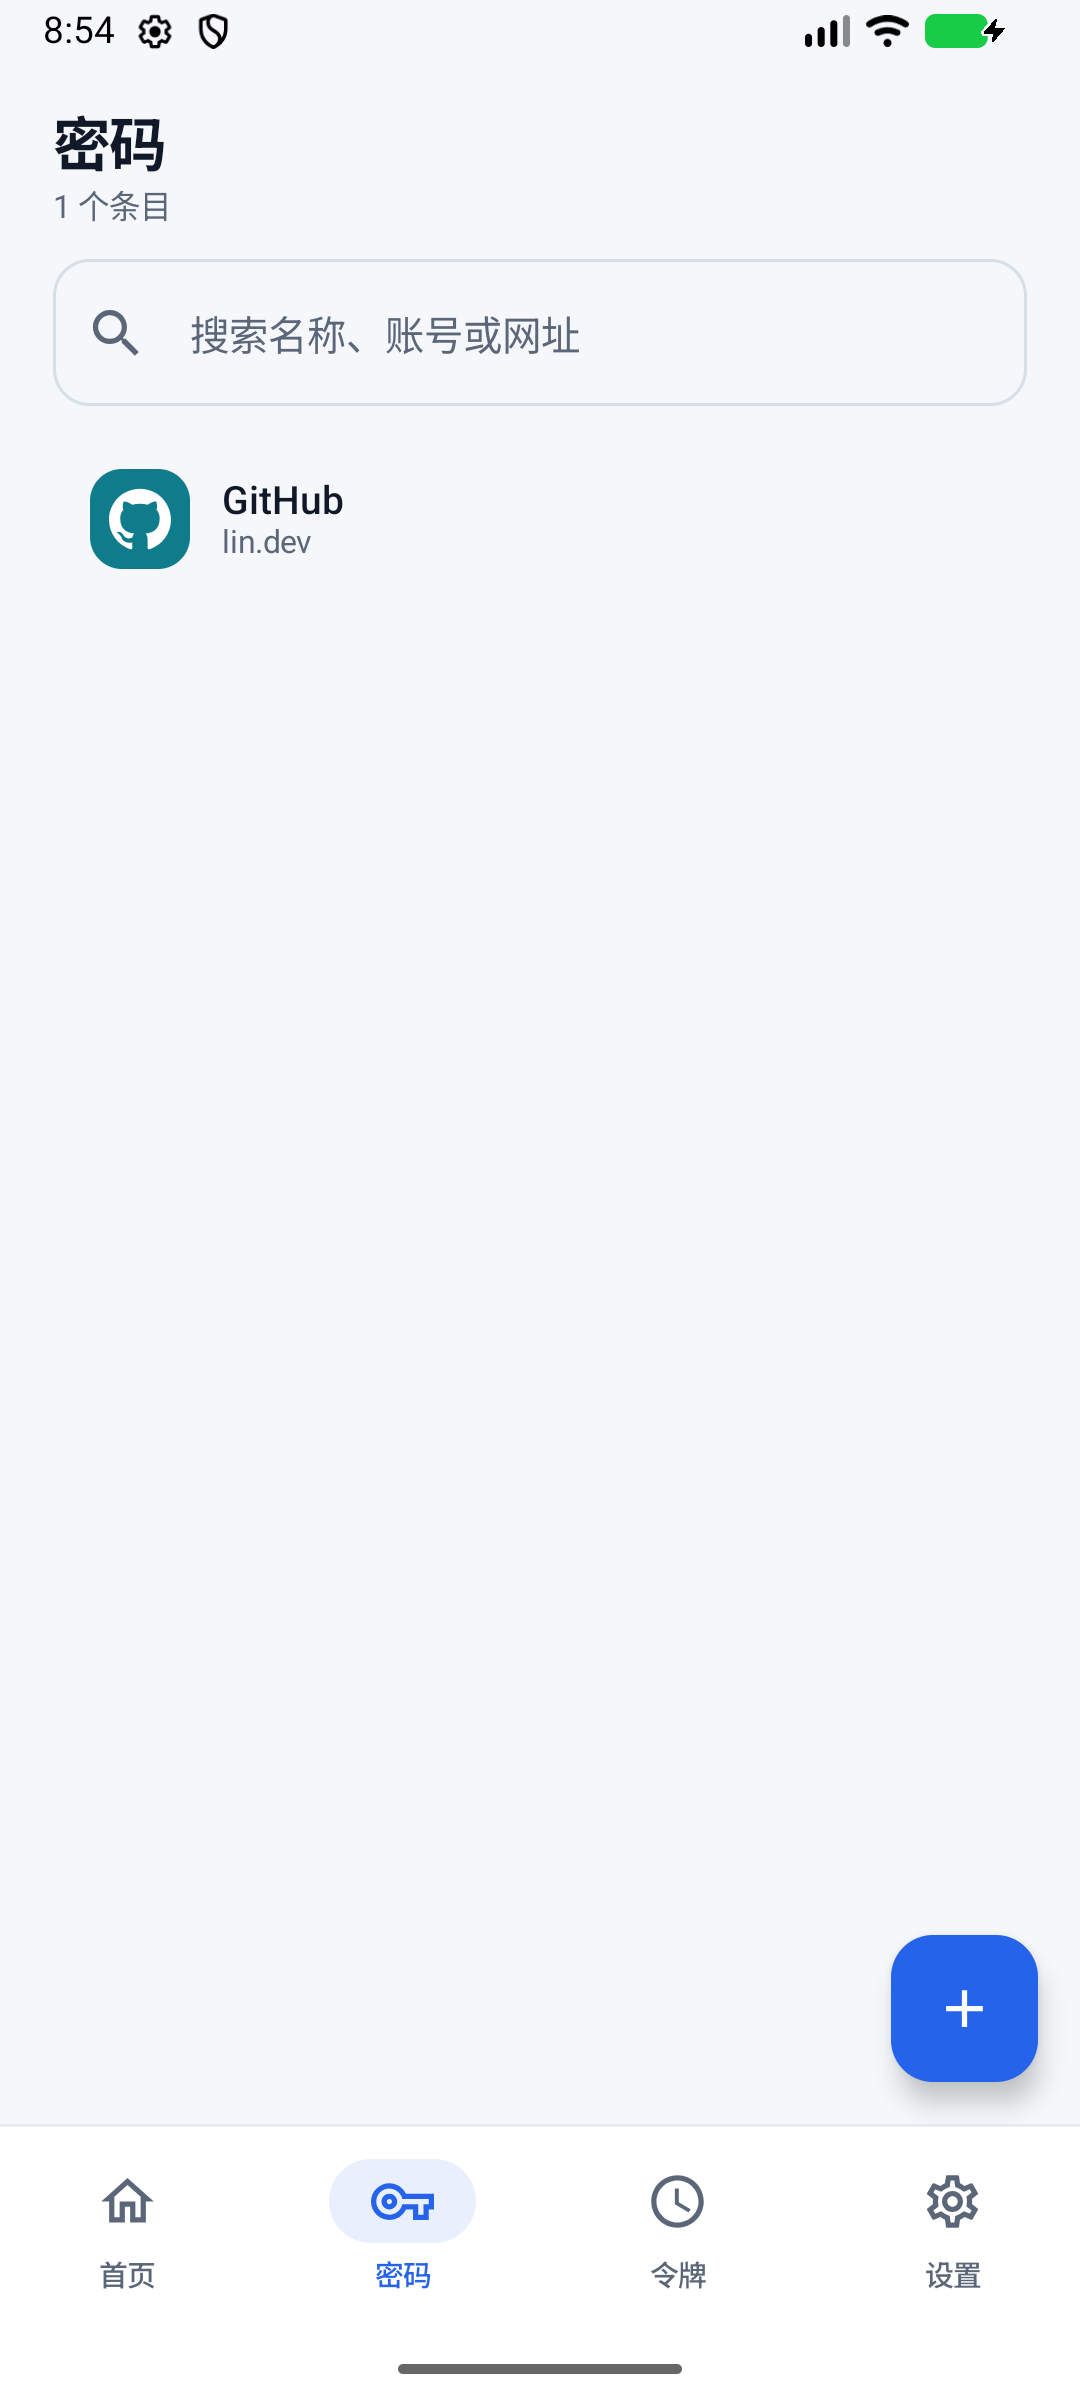
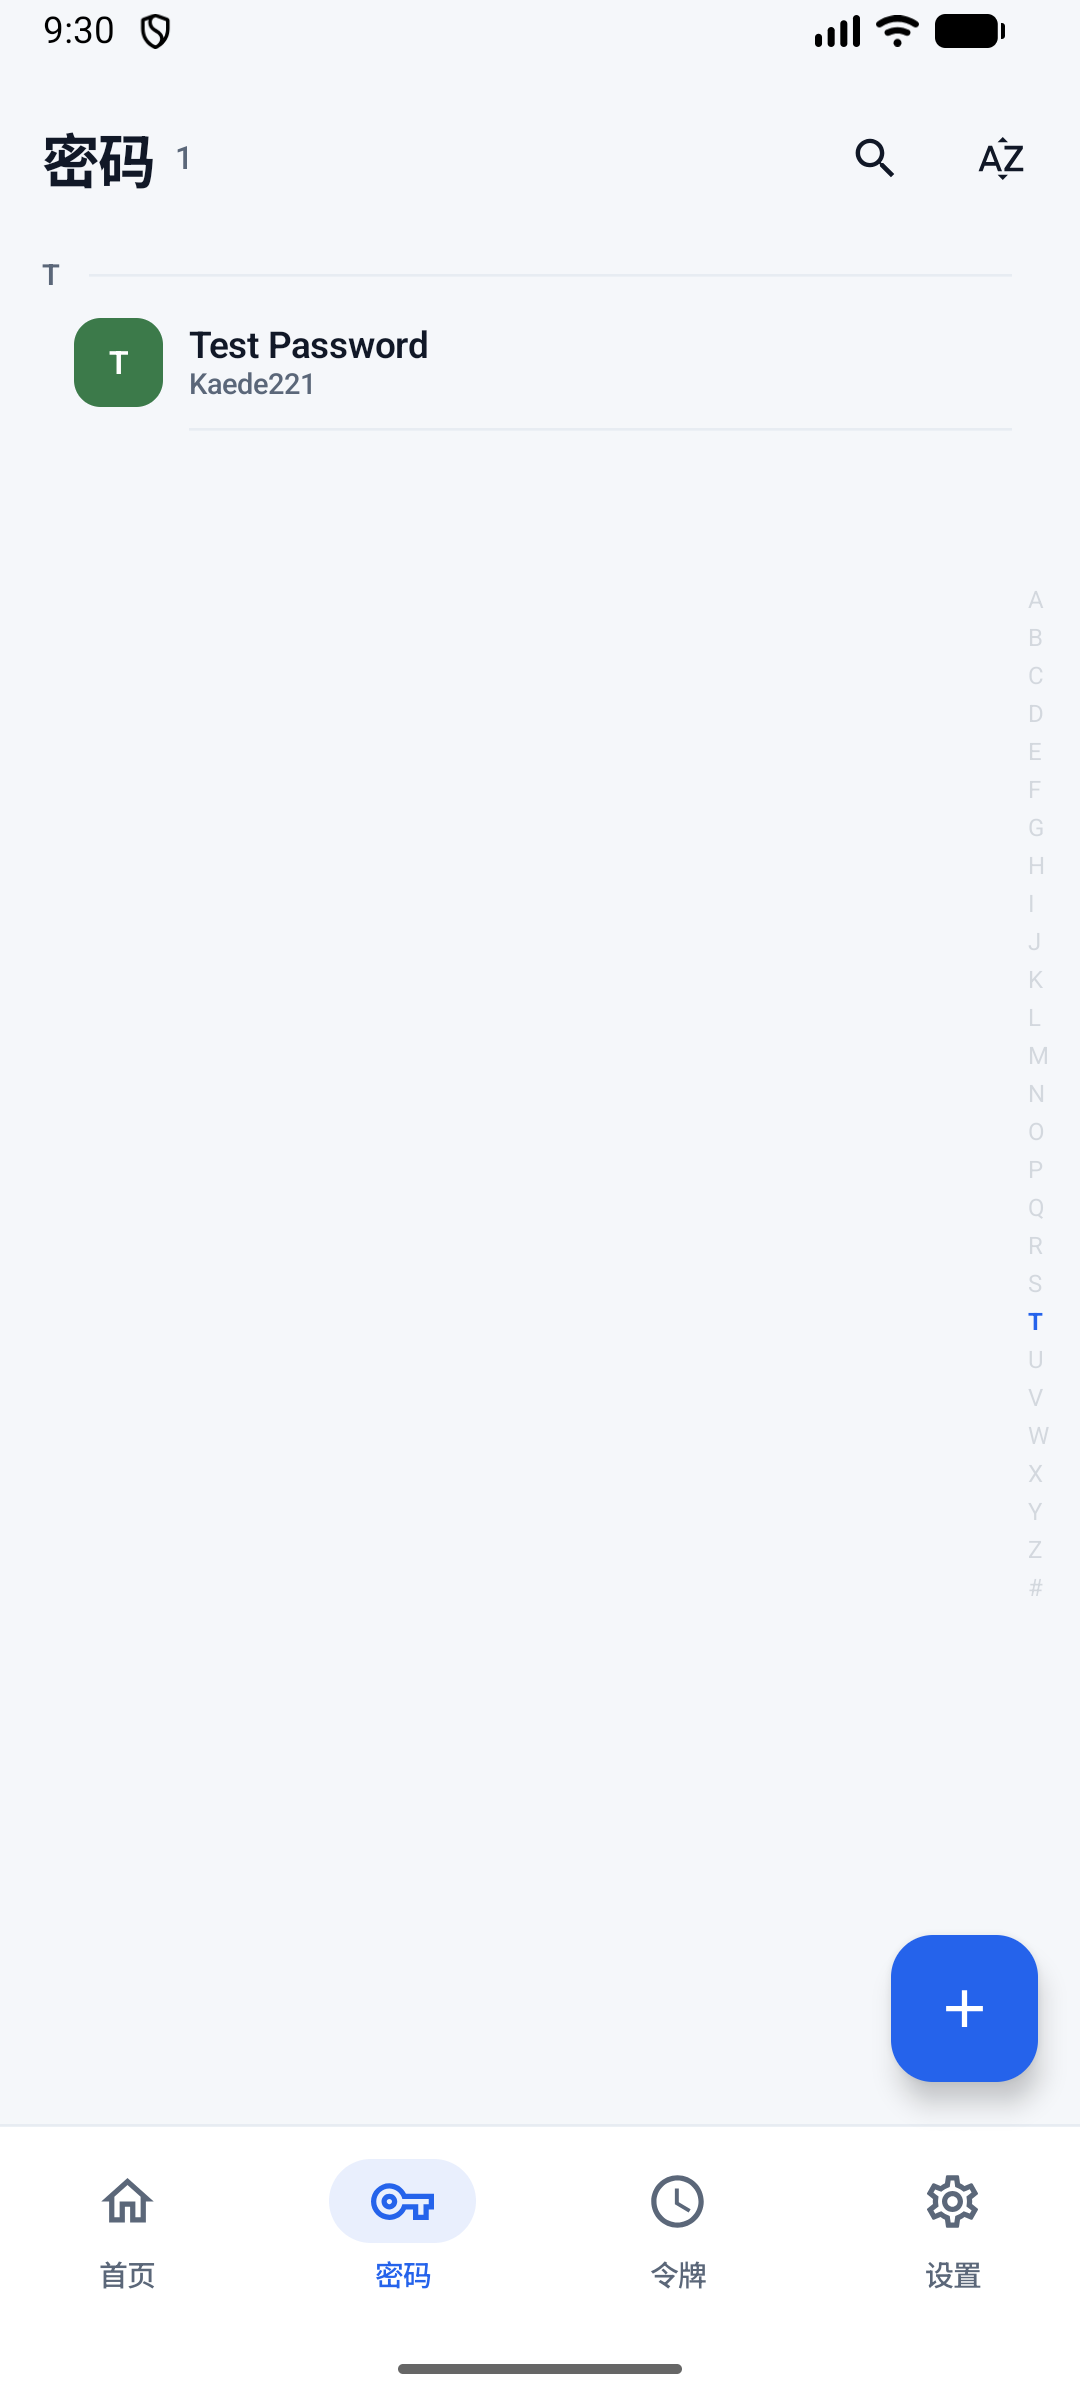
docs: document compact list language, FAB flow and canvas color picker

diff --git a/docs/design/ui-redesign.md b/docs/design/ui-redesign.md
@@ -1,6 +1,6 @@
 # KeyCase UI redesign notes
 
-The first Android build used a saturated accent as a background color and a fixed blue-grey surface, which made the app feel purple-on-blue and uncentered. This redesign treats color as a single accent role over neutral surfaces.
+The first Android build used a saturated accent as a background color, oversized cards and a fixed blue-grey surface. It felt purple-on-blue, and the list pages did not match the prototype. This revision follows the prototype's compact list language and treats color as a single accent role over neutral surfaces.
 
 Reference: [UI UX Pro Max](https://github.com/nextlevelbuilder/ui-ux-pro-max-skill) design intelligence; password-manager product guidance (Minimalism & Swiss Style + Accessible & Ethical; trust blue + security green + dark neutral).
 
@@ -8,8 +8,11 @@ Reference: [UI UX Pro Max](https://github.com/nextlevelbuilder/ui-ux-pro-max-ski
 
 - **One accent role.** Accent is used for primary actions, selected navigation, focus rings and small icon containers. Large surfaces stay neutral.
 - **Neutral canvas, coherent dark mode.** Dark surfaces are deep navy-grey, not a purple tint; light surfaces are near-white over a cool neutral background.
-- **One information hierarchy per screen.** Title → section label → grouped card → row. No nested decorative cards.
-- **4/8dp rhythm.** 16dp screen gutters, 14–18dp card radii, 16dp card padding, 10dp gaps between cards.
+- **Compact, list-first screens.** Titles sit inline with a count; search/sort are icon actions; rows are 8dp vertical padding with a 34dp avatar.
+- **A–Z index on lists.** Every password/token list has a 27-letter index on the right; letters without entries are dimmed and non-clickable.
+- **FAB owns creation.** The token tab has no top scan button and no overflow menu. The bottom-right plus expands upward into “扫码” and “手动添加”.
+- **Imports live in Settings → 数据.** No import action is hidden in a list overflow.
+- **4/8dp rhythm.** 16dp screen gutters, 14–18dp card radii, 14dp card padding, 8–10dp gaps between cards.
 - **Touch first.** Primary controls are 48dp; icon-only controls have at least 48dp hit targets via `IconButton`.
 - **No emoji as icons.** Material outlined icons only; the Aegis pack supplies real brand marks.
 
@@ -26,24 +29,32 @@ Reference: [UI UX Pro Max](https://github.com/nextlevelbuilder/ui-ux-pro-max-ski
 | Default accent | `#2563EB` | same |
 | Optional accents | teal/green/amber/rose | same |
 
-Amber uses dark foreground text (`luminance > 0.30` selects ink instead of white), so button and chip labels stay readable.
+Accent changes and light/dark switches animate every large surface with `animateColorAsState` over 360ms. Amber uses dark foreground text (`luminance > 0.30` selects ink instead of white), so labels stay readable.
 
 ## Components
 
-- **Stat cards:** 88dp high, icon at left, number and label vertically centered as one column. The first card uses a 10% accent container; the rest are surface cards with a 1dp outline.
-- **Settings:** section label outside the card, rows inside, 1dp dividers inset past the icon; no full-saturation panels.
-- **Theme selector:** three equal 48dp segments; selected segment is accent, not a Material FilterChip row.
-- **Bottom navigation:** surface-colored bar with a hairline divider; selected item uses accent icon/text and a subtle accent container indicator.
+- **Stat cards:** 72dp high, 30dp icon, 21sp number and 11sp label vertically centered as one column. The first card uses a 10% accent container; the rest are surface cards with a 1dp outline.
+- **List header:** title + count inline; search and A–Z sort icon buttons; search field expands/collapses with `AnimatedVisibility`.
+- **List rows:** 34dp avatar, 14sp title, 11sp subtitle, 8dp vertical padding, hairline divider inset past the avatar.
+- **Token row:** monospace code in an accent capsule plus a small circular countdown ring.
+- **Token FAB:** expands two extended actions with fade/slide, rotates the plus into a close mark.
+- **Settings:** section label outside the card, compact 10dp rows inside, 1dp dividers inset past the icon. No non-clickable informational rows in 安全.
+- **Theme selector:** Material 3 `SingleChoiceSegmentedButtonRow` / `SegmentedButton` with a check on the active mode.
+- **Custom accent:** HSV canvas (saturation/value board) + hue slider + live hex preview + restore-default, not a raw hex field.
+- **Bottom navigation:** surface-colored bar with a hairline divider; selected item uses accent icon/text and a subtle accent container indicator; tab content crossfades/slides.
 - **Detail/edit:** grouped information card; destructive action is icon + confirmation dialog; forms use labeled fields, not placeholders only.
 
 ## Verification checklist
 
-- [x] Stat card content vertically centered (fixed `fillMaxSize` + `CenterVertically`).
+- [x] Stat card content vertically centered, 72dp tall.
 - [x] Light and dark surface pairs checked on the Android 37 emulator.
 - [x] 48dp theme segments and icon controls.
 - [x] Safe-area padding through Scaffold / system bar insets.
 - [x] No emoji structural icons.
 - [x] Accent used sparingly; neutral background remains stable when accent changes.
+- [x] Full A–Z list index with dimmed unavailable letters.
+- [x] Token creation is only via the expandable FAB.
+- [x] All import actions are in Settings → 数据.
 - [ ] Largest Dynamic Type and landscape still need a dedicated pass.
 - [ ] Imported Aegis icon packs are not implemented yet; the built-in picker and custom image import are.
 
@@ -51,13 +62,14 @@ Amber uses dark foreground text (`luminance > 0.30` selects ink instead of white
 
 | Screen | File |
 |---|---|
-| Unlock (dark) | `docs/screenshots/unlock.png` |
-| Home (light) | `docs/screenshots/home.png` |
+| Create / unlock | `docs/screenshots/create.png`, `docs/screenshots/unlock.png` |
+| Home (light/dark) | `docs/screenshots/home.png`, `docs/screenshots/home-dark.png` |
 | Passwords | `docs/screenshots/passwords.png` |
 | Password detail | `docs/screenshots/password-detail.png` |
-| Tokens + QR scan | `docs/screenshots/tokens.png` |
+| Tokens | `docs/screenshots/tokens.png` |
+| Token FAB expanded | `docs/screenshots/fab-expanded.png` |
 | Token detail | `docs/screenshots/token-detail.png` |
-| Settings (light) | `docs/screenshots/settings-light.png` |
-| Settings (dark) | `docs/screenshots/settings-dark.png` |
+| Settings light/dark | `docs/screenshots/settings-light.png`, `docs/screenshots/settings-dark.png` |
+| Color canvas | `docs/screenshots/color-canvas.png` |
 | Group management | `docs/screenshots/groups.png` |
 | Icon picker | `docs/screenshots/icon-picker.png` |

diff --git a/README.md b/README.md
@@ -36,16 +36,18 @@ The app is built for Android and is intentionally offline. There is no sync serv
 |---|---|
 | ![Create](docs/screenshots/create.png) | ![Unlock](docs/screenshots/unlock.png) |
 | Create a local vault | Unlock with the master password |
-| ![Home](docs/screenshots/home.png) | ![Passwords](docs/screenshots/passwords.png) |
-| Home stats and recent items | Passwords with Aegis icon matching |
-| ![Password detail](docs/screenshots/password-detail.png) | ![Tokens](docs/screenshots/tokens.png) |
-| Password detail | TOTP list with live codes and QR scan |
-| ![Token detail](docs/screenshots/token-detail.png) | ![Settings light](docs/screenshots/settings-light.png) |
-| TOTP detail | Settings, grouped rows |
-| ![Settings dark](docs/screenshots/settings-dark.png) | ![Groups](docs/screenshots/groups.png) |
-| Dark mode | Group management |
-| ![Icon picker](docs/screenshots/icon-picker.png) | ![Aegis import](docs/screenshots/aegis-import.png) |
-| Icon picker | Aegis TOTP import |
+| ![Home light](docs/screenshots/home.png) | ![Home dark](docs/screenshots/home-dark.png) |
+| Home, compact cards | Home, dark mode |
+| ![Passwords](docs/screenshots/passwords.png) | ![Password detail](docs/screenshots/password-detail.png) |
+| Passwords with A–Z index | Password detail |
+| ![Tokens](docs/screenshots/tokens.png) | ![Token detail](docs/screenshots/token-detail.png) |
+| TOTP list with A–Z index | TOTP detail |
+| ![Token FAB](docs/screenshots/fab-expanded.png) | ![Color canvas](docs/screenshots/color-canvas.png) |
+| Scan / manual add FAB | Visual accent color picker |
+| ![Settings light](docs/screenshots/settings-light.png) | ![Settings dark](docs/screenshots/settings-dark.png) |
+| Settings, compact rows | Settings, dark mode |
+| ![Groups](docs/screenshots/groups.png) | ![Icon picker](docs/screenshots/icon-picker.png) |
+| Group management | Icon picker |
 
 ## Build
 
